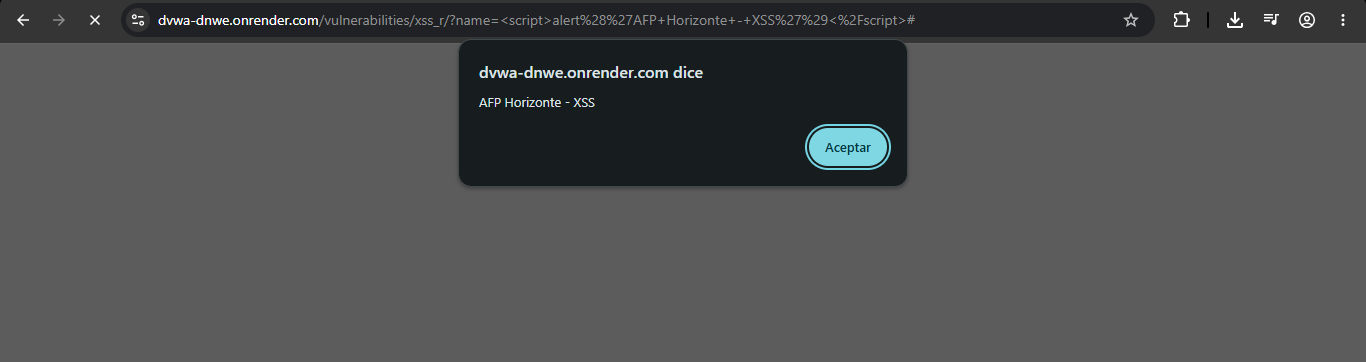
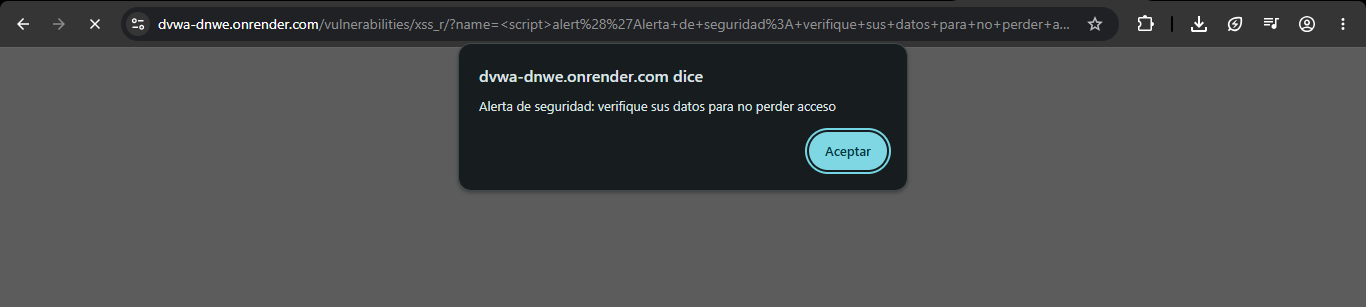
Actualizar payload XSS y personalizar ejemplo en la seccion XSS

Changed region(s): [[0.0, 0.0, 1.0, 0.1759], [0.3382, 0.3225, 0.6764, 0.645], [0.3382, 0.1759, 0.5227, 0.2932]]

diff --git a/docs_corjav/03_xss_corjav.md b/docs_corjav/03_xss_corjav.md
@@ -2,14 +2,12 @@
 
 ## Evidencia
 
-Ejecutado en DVWA (nivel Low), módulo **XSS (Reflected)**. En el campo "What's your name?" se ingresó:  <script>alert('AFP Horizonte - XSS')</script>
+Ejecutado en DVWA (nivel Low), módulo **XSS (Reflected)**. En el campo "What's your name?" se ingresó:  <script>alert('Alerta de seguridad: verifique sus datos para no perder acceso')</script>
 
 
 ![XSS reflejado en DVWA](img_corjav/xss_corjav.png)
 
-*En la imagen, la entrada se interpreta como código y el navegador ejecuta el
-script, mostrando un popup con el mensaje "AFP Horizonte - XSS". En la URL se
-observa el payload inyectado, confirmando que el código se reflejó y ejecutó.*
+*En la imagen, la entrada se interpreta como código y el navegador ejecuta el script, mostrando un popup con el mensaje "Alerta de seguridad: verifique sus datos para no perder acceso". Este mensaje simula una alerta fraudulenta que suplanta a la AFP para inducir al afiliado a entregar sus credenciales. En la URL se observa el payload inyectado, confirmando que el código se reflejó y ejecutó.*
 
 ## Por qué funciona
 
@@ -17,13 +15,13 @@ La aplicación inserta la entrada del usuario dentro del HTML sin sanitizarla.
 Una entrada normal:
 
 ```html
-<p>Hola Pedro</p>
+<p>Hola Profe Ruben</p>
 ```
 
 Una entrada maliciosa con una etiqueta script:
 
 ```html
-<p>Hola <script>alert('AFP Horizonte - XSS')</script></p>
+<p>Hola <script>alert('Alerta de seguridad: verifique sus datos para no perder acceso')</script></p>
 ```
 
 El navegador no distingue entre el contenido propio de la página y la entrada
@@ -42,7 +40,7 @@ inyección SQL: la aplicación mezcla datos del usuario con su propio código.
 Cada métrica se marcó según lo observado en el ataque:
 
 - **Attack Vector: Network (AV:N)** — el ataque viaja por internet, en un enlace con el payload.
-- **Attack Complexity: Low (AC:L)** — el payload `<script>alert('AFP Horizonte - XSS')</script>` se ejecuta sin condiciones especiales.
+- **Attack Complexity: Low (AC:L)** — el payload `<script>alert('Alerta de seguridad: verifique sus datos para no perder acceso')</script>` se ejecuta sin condiciones especiales.
 - **Privileges Required: None (PR:N)** — no se necesita cuenta para enviarlo.
 - **User Interaction: Required (UI:R)** — la víctima debe abrir el enlace para que el script corra. Este paso intermedio es lo que baja el puntaje frente a SQLi y comandos.
 - **Scope: Changed (S:C)** — el código se ejecuta en el navegador de la víctima, un componente distinto del servidor que reflejó la entrada; por eso el alcance cambia.